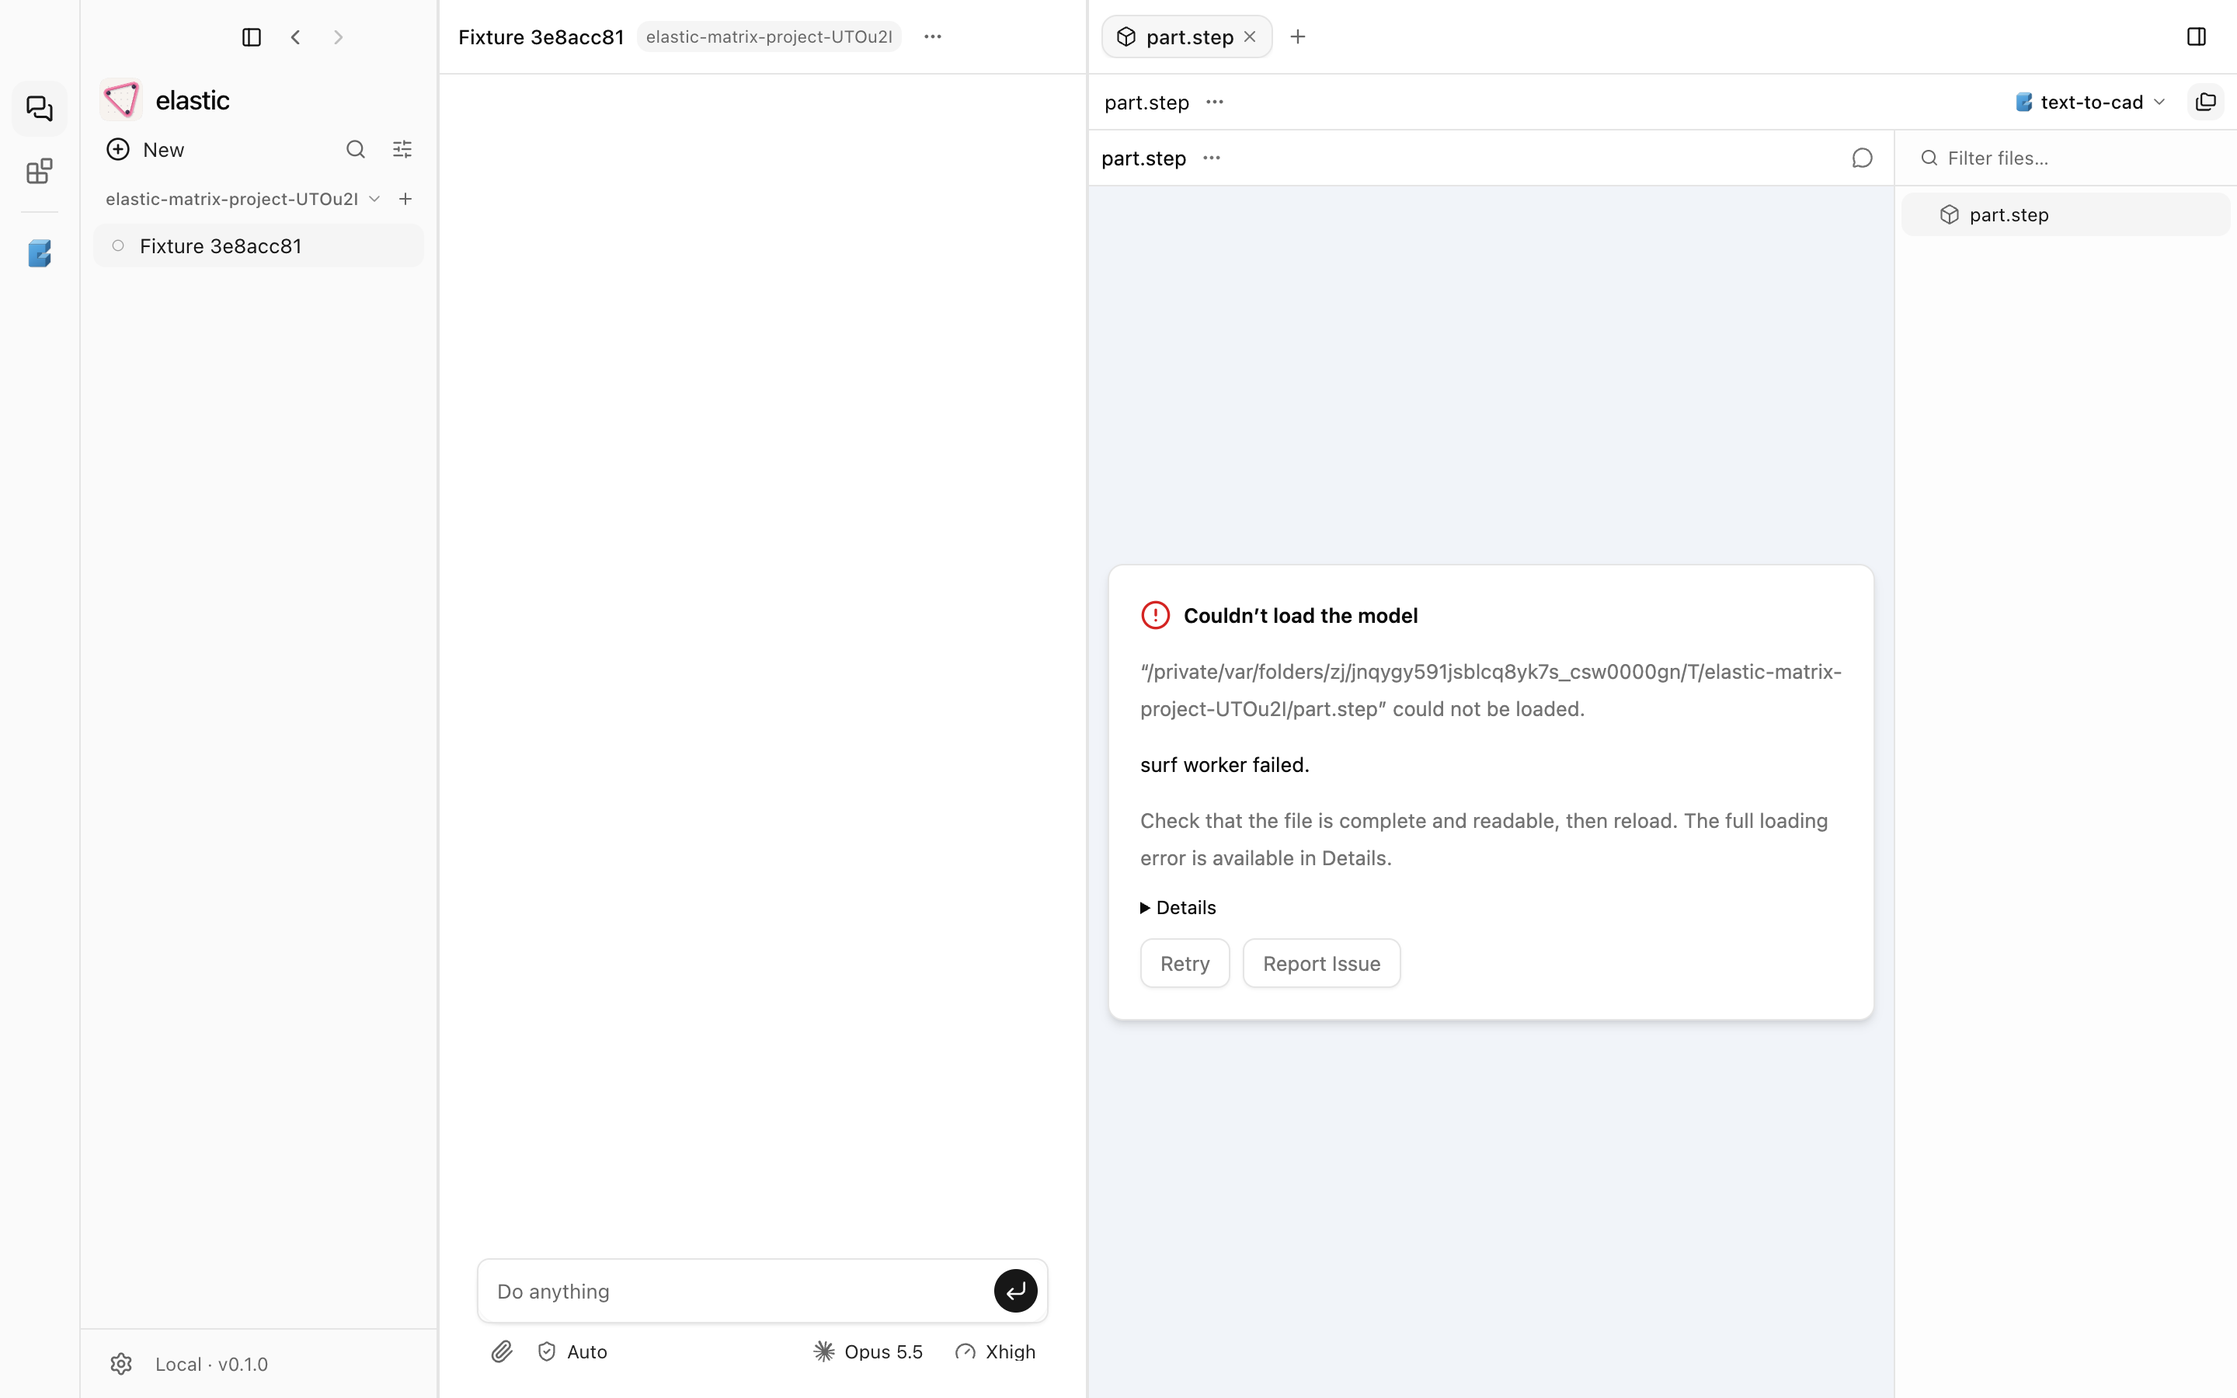
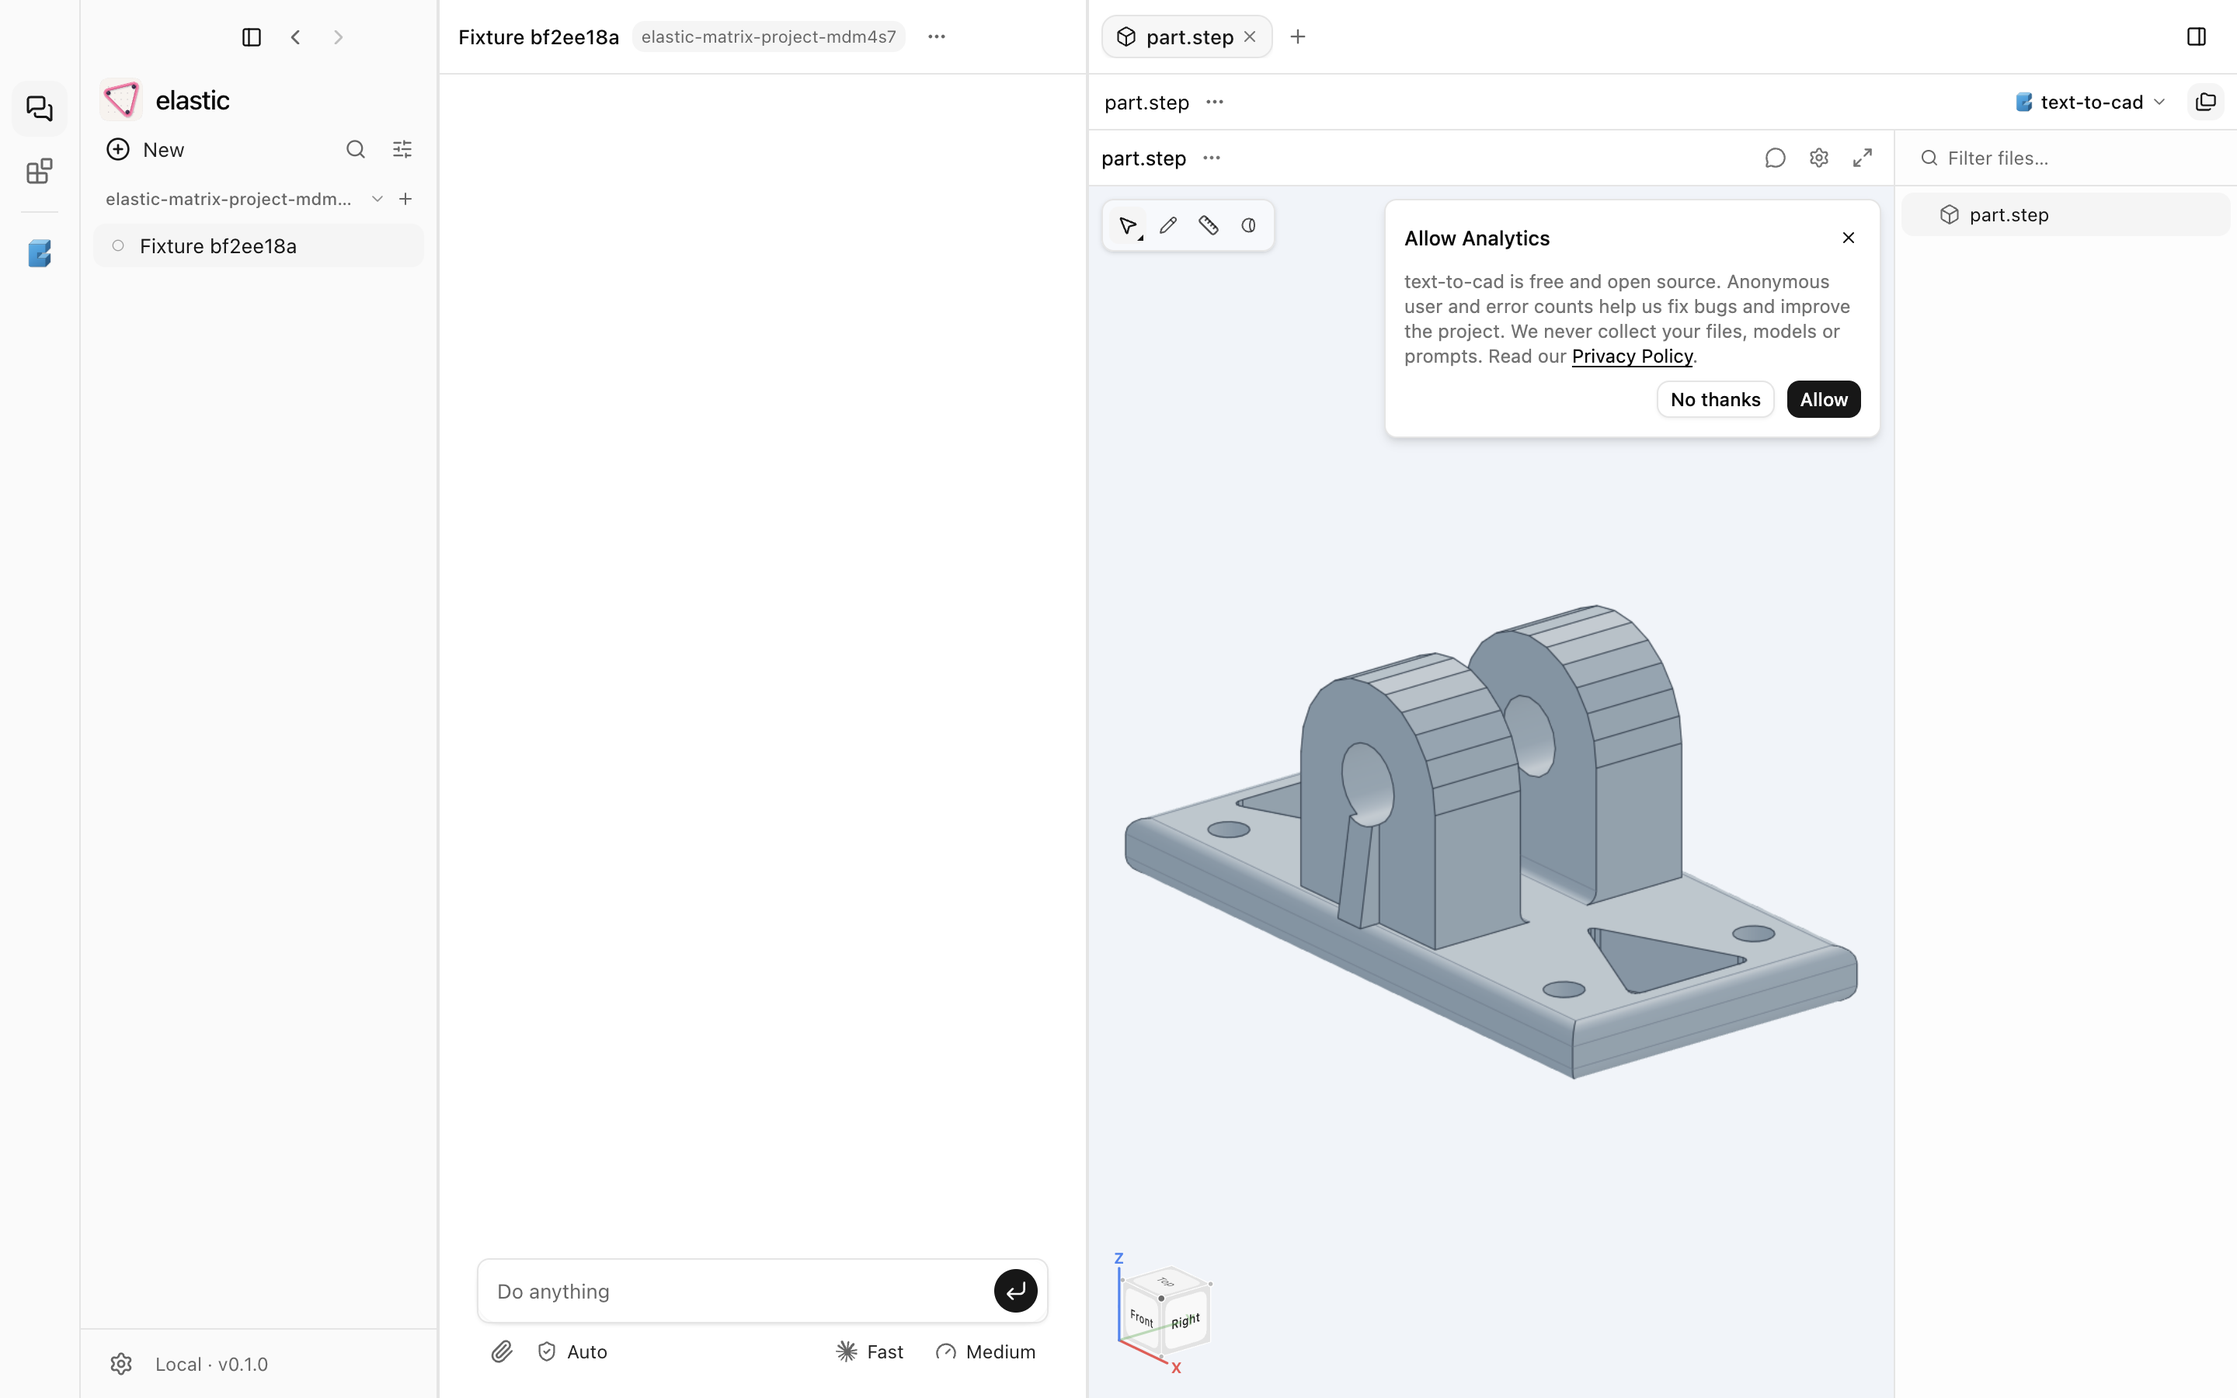
Plugins: each MCP App frame is an origin of its own, so CAD models render
The frame keeps allow-same-origin on its random mcp-app://<id> origin: never
the app's or another frame's, no preload, no navigation off its origin, and
its storage is cleared on release. Module and blob: workers start, which
text-to-cad's CAD page needs.

diff --git a/src/main/plugins/app-protocol.ts b/src/main/plugins/app-protocol.ts
@@ -6,17 +6,27 @@
  * file, as MCP Apps ship) would not run. Served from its own scheme instead,
  * the frame is a document of its own with the policy MCP Apps describes: no
  * network unless the resource's `_meta.ui.csp` names domains, scripts and
- * styles inline or from its `resourceDomains`. The renderer's `<iframe>` is
- * sandboxed without `allow-same-origin` on top, so the app has an opaque origin
- * and talks to the host by `postMessage` alone.
+ * styles inline or from its `resourceDomains`.
+ *
+ * Every staged document is its own origin, `mcp-app://<random id>`: never the
+ * app's (a file or the dev server) and never another frame's. The renderer's
+ * `<iframe>` keeps `allow-same-origin` so that origin is real rather than
+ * opaque, as an MCP Apps host's sandbox origin is (and as Codex hosts them):
+ * module workers, `blob:` workers and storage need one, and text-to-cad's CAD
+ * page starts its model workers that way. Same-origin with itself only: the
+ * app's document, `window.workbench` (the preload runs in the main frame
+ * alone) and every other app stay out of reach, the frame cannot navigate the
+ * top window (no `allow-top-navigation`) or itself to another origin
+ * (`guardAppFrames`), and its storage is cleared with it. It talks to the host
+ * by `postMessage` alone.
  *
  * The renderer stages a document (`plugins.stageApp`) and gets a one-off URL;
- * the document is dropped when its frame is torn down (`plugins.releaseApp`)
- * and never outlives the app.
+ * the document and its origin's storage are dropped when its frame is torn
+ * down (`plugins.releaseApp`) and never outlive the app.
  */
 import { randomBytes } from "node:crypto";
 
-import { protocol } from "electron";
+import { protocol, session, type WebContents } from "electron";
 
 export const APP_SCHEME = "mcp-app";
 
@@ -79,8 +89,39 @@ export function stageApp(html: string, csp: unknown): string {
 }
 
 export function releaseApp(url: string): void {
+  let id: string;
   try {
     const parsed = new URL(url);
-    if (parsed.protocol === `${APP_SCHEME}:`) staged.delete(parsed.hostname);
-  } catch { /* not one of ours */ }
+    if (parsed.protocol !== `${APP_SCHEME}:`) return;
+    id = parsed.hostname;
+  } catch { return; /* not one of ours */ }
+  staged.delete(id);
+  void session.defaultSession.clearStorageData({ origin: `${APP_SCHEME}://${id}` }).catch(() => {});
+}
+
+function originOf(url: string | undefined): string | null {
+  if (!url) return null;
+  try {
+    const parsed = new URL(url);
+    return parsed.protocol === `${APP_SCHEME}:` ? `${APP_SCHEME}://${parsed.hostname}` : null;
+  } catch { return null; }
+}
+
+/**
+ * Whether a frame showing `from` may go to `to`. An app's frame stays on its own
+ * origin (its pages, its reloads); it never becomes the app's document, another
+ * app's or the web. Frames that are not apps are not this rule's business.
+ */
+export function frameNavigationAllowed(from: string | undefined, to: string): boolean {
+  const own = originOf(from);
+  if (own === null) return true;
+  return originOf(to) === own;
+}
+
+/** The window's half of the rule: every sub-frame navigation goes through `frameNavigationAllowed`. */
+export function guardAppFrames(contents: WebContents): void {
+  contents.on("will-frame-navigate", (event) => {
+    if (event.isMainFrame) return;
+    if (!frameNavigationAllowed(event.frame?.url, event.url)) event.preventDefault();
+  });
 }

diff --git a/tests/e2e/plugins.spec.ts b/tests/e2e/plugins.spec.ts
@@ -1,3 +1,4 @@
+/// <reference lib="dom" />
 /**
  * Plugins end to end, in the built app: the examples marketplace on the Plugins page, an
  * install from it, a file of a format the plugin claims opening behind the consent screen and
@@ -103,4 +104,40 @@ test("the rail page and the session's + menu open the same app", async () => {
   await home.getByRole("button", { name: "Show table" }).click();
   await expect(home.locator("tbody tr")).toHaveCount(2);
   await shoot("plugins-rail-page.png");
+});
+
+test("each app frame is an origin of its own: workers start, the app and other frames stay out of reach", async () => {
+  // The rail page and the session's Table tab, both open from the test above: two frames of one plugin.
+  const apps = page.frames().filter((frame) => frame.url().startsWith("mcp-app://"));
+  expect(apps.length).toBeGreaterThanOrEqual(2);
+  const [first, second] = apps as [typeof apps[number], typeof apps[number]];
+  const probe = (frame: typeof first) =>
+    frame.evaluate(async () => {
+      let parentReadable = true;
+      try { void window.parent.document.title; } catch { parentReadable = false; }
+      // `import.meta` parses only in a module worker; a classic one fails to start.
+      const source = "self.postMessage(import.meta.url ? 'module' : 'none');";
+      const worker = new Worker(URL.createObjectURL(new Blob([source], { type: "text/javascript" })), { type: "module" });
+      const kind = await new Promise<string>((resolve) => {
+        worker.onmessage = (event) => resolve(String(event.data));
+        worker.onerror = () => resolve("failed");
+        setTimeout(() => resolve("timeout"), 5_000);
+      });
+      worker.terminate();
+      return { origin: location.origin, workbench: typeof (window as { workbench?: unknown }).workbench, parentReadable, worker: kind };
+    });
+  const a = await probe(first);
+  const b = await probe(second);
+  for (const result of [a, b]) {
+    expect(result.origin).toMatch(/^mcp-app:\/\/[0-9a-f]{24}$/);
+    expect(result).toMatchObject({ workbench: "undefined", parentReadable: false, worker: "module" });
+  }
+  expect(a.origin).not.toBe(b.origin);
+  await first.evaluate(() => localStorage.setItem("elastic-isolation", "first"));
+  expect(await second.evaluate(() => localStorage.getItem("elastic-isolation"))).toBeNull();
+  // A frame that tries to leave its origin for the app's page stays where it was.
+  const before = first.url();
+  await first.evaluate(() => { location.href = "mcp-app://ffffffffffffffffffffffff/index.html"; }).catch(() => {});
+  await page.waitForTimeout(500);
+  expect(first.url()).toBe(before);
 });

diff --git a/tests/unit/main/plugins.test.ts b/tests/unit/main/plugins.test.ts
@@ -9,9 +9,10 @@ import path from "node:path";
 
 import { afterEach, beforeEach, describe, expect, it, vi } from "vitest";
 
-vi.mock("electron", () => ({ protocol: { registerSchemesAsPrivileged: vi.fn(), handle: vi.fn() } }));
+const clearStorageData = vi.hoisted(() => vi.fn(async () => {}));
+vi.mock("electron", () => ({ protocol: { registerSchemesAsPrivileged: vi.fn(), handle: vi.fn() }, session: { defaultSession: { clearStorageData } } }));
 
-import { appPolicy, releaseApp, stageApp } from "../../../src/main/plugins/app-protocol";
+import { appPolicy, frameNavigationAllowed, releaseApp, stageApp } from "../../../src/main/plugins/app-protocol";
 import { expandPluginRoot, insidePlugin, readMarketplace, readPlugin } from "../../../src/main/plugins/manifest";
 import { PluginRegistry } from "../../../src/main/plugins/registry";
 import { appOnly } from "../../../src/main/plugins/service";
@@ -162,5 +163,24 @@ describe("mcp-app:// documents", () => {
     const url = stageApp("<p>hi</p>", undefined);
     expect(url).toMatch(/^mcp-app:\/\/[0-9a-f]{24}\/index\.html$/);
     releaseApp(url);
+    // The frame's origin goes with it: nothing it stored is left for a later one.
+    expect(clearStorageData).toHaveBeenCalledWith({ origin: url.replace(/\/index\.html$/, "") });
+  });
+
+  it("gives every staged document an origin of its own", () => {
+    const origins = new Set(Array.from({ length: 20 }, () => new URL(stageApp("<p/>", undefined)).hostname));
+    expect(origins.size).toBe(20);
+  });
+
+  it("keeps an app's frame on its own origin", () => {
+    const own = "mcp-app://aaaaaaaaaaaaaaaaaaaaaaaa/index.html";
+    expect(frameNavigationAllowed(own, "mcp-app://aaaaaaaaaaaaaaaaaaaaaaaa/other.html")).toBe(true);
+    expect(frameNavigationAllowed(own, "mcp-app://bbbbbbbbbbbbbbbbbbbbbbbb/index.html")).toBe(false);
+    expect(frameNavigationAllowed(own, "file:///Applications/elastic.app/Contents/Resources/app/out/renderer/index.html")).toBe(false);
+    expect(frameNavigationAllowed(own, "http://localhost:5173/")).toBe(false);
+    expect(frameNavigationAllowed(own, "https://example.com/")).toBe(false);
+    expect(frameNavigationAllowed(own, "javascript:alert(1)")).toBe(false);
+    // Frames that are not apps (the browser's own pages live in views, not frames) are not this rule's.
+    expect(frameNavigationAllowed("about:blank", "https://example.com/")).toBe(true);
   });
 });

diff --git a/src/renderer/plugins/McpAppFrame.tsx b/src/renderer/plugins/McpAppFrame.tsx
@@ -80,7 +80,7 @@ type Staged = { key: string; url: string | null; error: string | null };
  * size in whatever it is mounted in: a tab, a rail page, a file.
  *
  * The HTML is served from its own `mcp-app://` URL (main's
- * `plugins/app-protocol.ts`) in a frame sandboxed without same-origin, and
+ * `plugins/app-protocol.ts`) in a sandboxed frame whose origin is its own, and
  * spoken to with the MCP Apps bridge over `postMessage`. The app's requests
  * (its own server's tools and resources) go to main as `plugins.request` in
  * this frame's scope. The host's theme goes in as style variables, and the
@@ -222,8 +222,9 @@ export function McpAppFrame({ pluginId, pluginName, server, tool, resourceUri, s
         <iframe
           className="absolute inset-0 size-full border-0 bg-background"
           ref={frameRef}
-          // No allow-same-origin: the app is an opaque origin, reachable by postMessage only.
-          sandbox="allow-scripts allow-forms allow-popups allow-downloads"
+          // allow-same-origin keeps the frame's own mcp-app://<id> origin real (workers, storage);
+          // it is never the app's origin (main's plugins/app-protocol.ts), so the app stays postMessage-only.
+          sandbox="allow-scripts allow-same-origin allow-forms allow-popups allow-downloads"
           src={url}
           title={`${pluginName}: ${tool}`}
         />

diff --git a/src/main/index.ts b/src/main/index.ts
@@ -8,7 +8,7 @@ import { fileURLToPath } from "node:url";
 import { BrowserWindow, app, dialog, nativeImage, nativeTheme, shell } from "electron";
 
 import { initIntegrations, shutdownIntegrations } from "./integrations";
-import { registerAppScheme, serveAppScheme } from "./plugins/app-protocol";
+import { guardAppFrames, registerAppScheme, serveAppScheme } from "./plugins/app-protocol";
 import { APP_NAME, APP_SLUG } from "../shared/brand";
 import { browserService } from "./browser/service";
 import { endTrackedChildren, killTrackedChildren } from "./children";
@@ -152,6 +152,7 @@ function createWindow() {
   });
 
   restrictAppPermissions(window.webContents.session);
+  guardAppFrames(window.webContents);
   if (state.maximized) {
     window.maximize();
   }

diff --git a/docs/research/plugin-matrix.md b/docs/research/plugin-matrix.md
@@ -24,7 +24,7 @@ from this 0.7.8 setup.
 
 | Plugin | Installs | Servers | Tools | Views | Agent / call | Notes |
 | --- | --- | --- | --- | --- | --- | --- |
-| text-to-cad (cadgen 0.7.8 + PR #509) | yes, unchanged | ready (stdio) | 16 | rail page, thread tab, `Open with` for STEP/STL/GLB... | | rail page renders recents with thumbnails; a STEP file view fails, see CAD below |
+| text-to-cad (cadgen 0.7.8 + PR #509) | yes, unchanged | ready (stdio) | 16 | rail page, thread tab, `Open with` for STEP/STL/GLB... | | rail page renders recents with thumbnails; a STEP file renders (fixed: plugin frames are now their own origin, see CAD below) |
 | Linear (Claude Code plugin) | yes (after the bare `.mcp.json` fix) | Sign in (HTTP, OAuth) | after sign-in | none | | registration and PKCE work; the sign-in reaches `mcp.linear.app/authorize` |
 | Figma (Claude Code plugin) | yes, 14 skills | Sign in (HTTP, OAuth) | after sign-in | none | | `mcp.figma.com` refuses client registration (403): only apps Figma approved can sign in |
 | Playwright MCP (`@playwright/mcp`) | yes | ready | 25 | none (no MCP App) | `browser_navigate` to example.com returns its snapshot | needs `--browser chrome` (or its own browser install) |
@@ -52,13 +52,15 @@ but the model shows "Couldn't load the model: surf worker failed." Found:
 - Not the cause, but fixed on the way: elastic dropped the `data:` and `blob:`
   sources cadgen declares in `_meta.ui.csp.connectDomains`.
 
-Two ways out, a decision rather than a bug fix:
-1. elastic adds `allow-same-origin` to plugin frames. Each staged document has
-   a random `mcp-app://<id>` host, so the origin would be its own, not the
-   window's. It is a security trade-off (the frame gets storage and a real
-   origin), so it was not made without a decision.
-2. cadgen starts its workers from a classic worker or a `data:` URL, which
-   works from an opaque origin. That keeps hosts strict.
+**Fixed (2026-10-02, Amy chose option 1, "own origin per plugin").** Every
+plugin frame now keeps `allow-same-origin` on its own random `mcp-app://<id>`
+origin: never the app's or another frame's, no `window.workbench`, no top or
+cross-origin navigation (`guardAppFrames`), storage cleared on release
+(`src/main/plugins/app-protocol.ts`; unit tests in `tests/unit/main/plugins.test.ts`,
+an in-frame probe in `tests/e2e/plugins.spec.ts`). Re-run on the same setup:
+the STEP model renders (`cad-step-file.png`), with cadgen's analytics prompt on
+top. The other option, cadgen starting workers from a classic worker or a
+`data:` URL, is no longer needed.
 
 Codex's "worker did not announce itself within 120s" did not reproduce here;
 that message is cadgen's daemon pool (`cadgen/daemon/pool.py:274`), a
@@ -66,8 +68,8 @@ different worker.
 
 ## What "all the apps" takes
 
-- **CAD:** works as a plugin (rail page, tabs, file handler) once the worker
-  question above is settled. PR #509 is what gives elastic the tab surfaces.
+- **CAD:** works as a plugin: rail page, tabs, file handler, and the model
+  renders. PR #509 is what gives elastic the tab surfaces.
 - **Figma:** OAuth is built (`src/main/plugins/oauth.ts`), but Figma's server
   only registers clients it knows. elastic needs Figma to approve it (or a
   client id from Figma configured in the plugin). Until then Figma works only

diff --git a/docs/plugins.md b/docs/plugins.md
@@ -97,8 +97,12 @@ presents Codex's entrypoints, so a server that has tab surfaces (text-to-cad's
 CAD plugin) can offer them to any host that declares it rather than to a list
 of client names (`src/main/plugins/host.ts`).
 
-The view is a sandboxed frame (no same-origin) served from its own
-`mcp-app://` URL under a policy with no network access unless the resource's
+The view is a sandboxed frame served from its own `mcp-app://<random id>`
+URL, which is its own origin: real, so module and `blob:` workers and storage
+work (text-to-cad's CAD page needs them), but never the app's or another
+view's. It cannot reach the app's page or `window.workbench`, navigate the
+window, or leave its origin, and its storage is cleared when it closes. It is
+served under a policy with no network access unless the resource's
 `_meta.ui.csp` lists `connectDomains` or `resourceDomains`. It talks to the app
 with the MCP Apps protocol over `postMessage`: `ui/initialize`, then the tool's
 input and result arrive as `ui/notifications/tool-input` and `tool-result`, and
